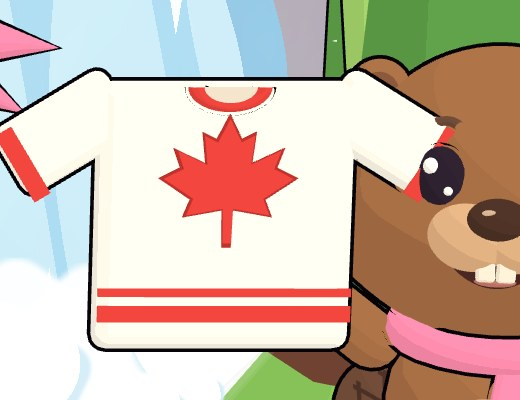
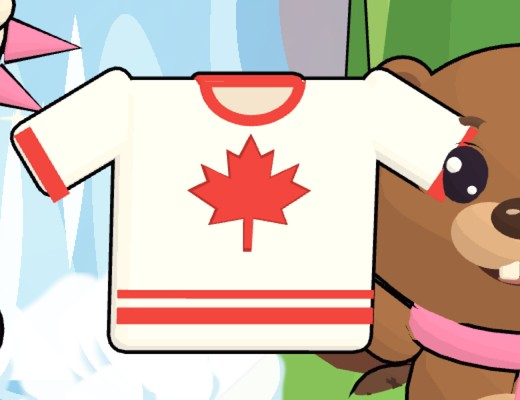
Review page for neb636/sweater-neck

diff --git a/neb636--sweater-neck/index.html b/neb636--sweater-neck/index.html
@@ -37,13 +37,15 @@ button:focus-visible,.pill:focus-visible{outline:3px solid var(--ink);outline-of
 </style></head><body><main>
 <span class="chip">Check-in fix</span>
 <h1>The bath: the team sweater's neck</h1>
-<p class="kaylee">The team sweater Maple holds up has a real round neck now, not a red ring floating over it.</p>
+<p class="kaylee">The team sweater Maple holds up has a real crew neck now: a wide red collar you can see into, not a red ring or a little smile on the top edge.</p>
 
 
 <h2>Before and after</h2><div class="pics"><figure class="pair"><div><img src="pics/sweater-before.jpg" alt="Before: Maple holds up the sweater" loading="lazy"><span>Before</span></div><div><img src="pics/sweater-after.jpg" alt="After: Maple holds up the sweater" loading="lazy"><span>After</span></div>
-<figcaption><b>Maple holds up the sweater</b>: The red ring above the top is now a scooped crew neck; the leaf moved down to clear it</figcaption></figure>
+<figcaption><b>Maple holds up the sweater</b>: A wide scooped collar with the red rib all the way round and the inside of the sweater showing; the leaf sits lower to clear it</figcaption></figure>
+<figure class="solo"><img src="pics/sweater-first-try.jpg" alt="The first try, for comparison" loading="lazy">
+<figcaption><b>The first try, for comparison</b>: The half ring that still poked up over the top edge: replaced</figcaption></figure>
 <figure class="solo"><img src="pics/sweater-print.jpg" alt="After Misty's paw print" loading="lazy">
-<figcaption><b>After Misty's paw print</b>: The paw print still lands on the tummy under the leaf</figcaption></figure></div>
+<figcaption><b>After Misty's paw print</b>: The paw print still lands on the tummy</figcaption></figure></div>
 
 
 
